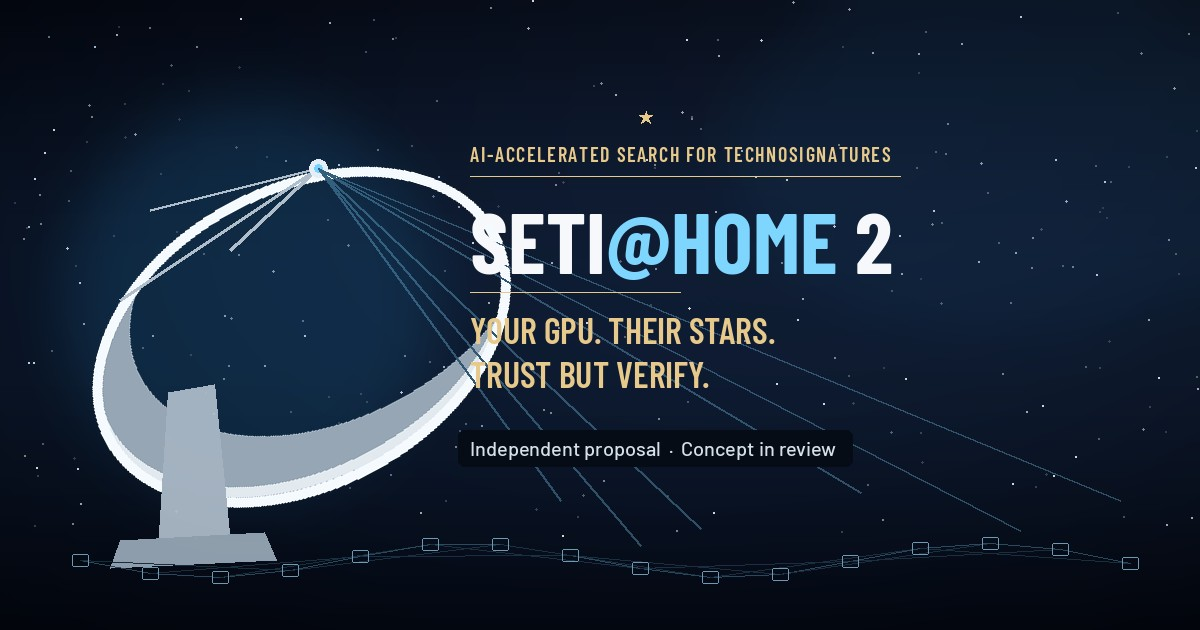
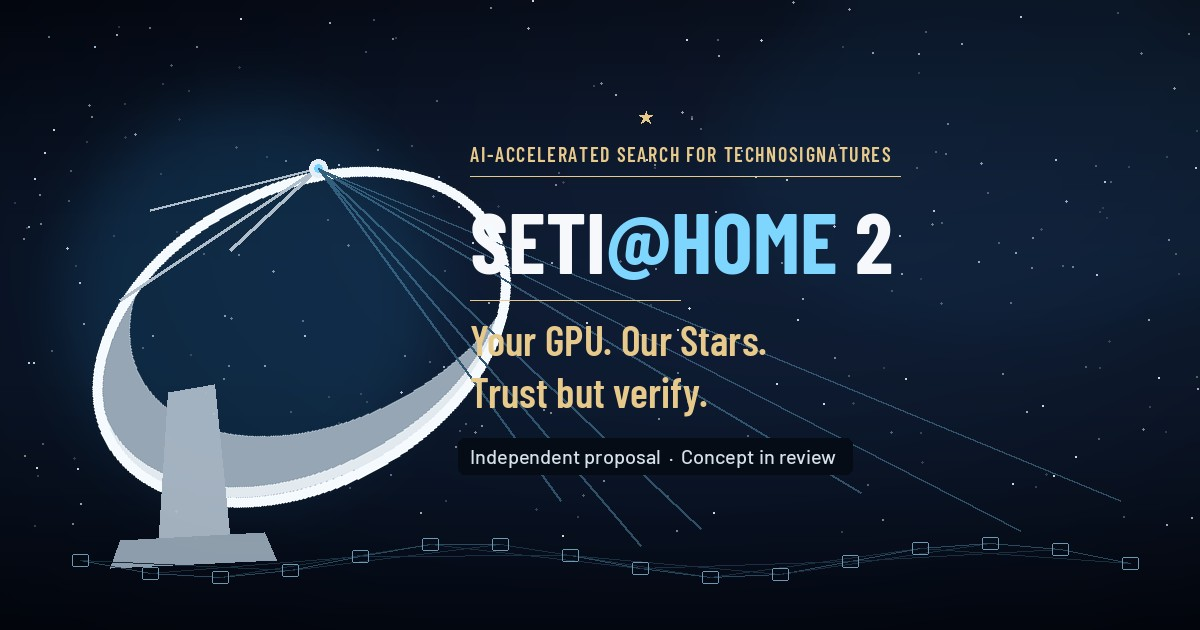
Use the tagline Your GPU. Our Stars.
Replace the old wording in the page, share metadata, and the Open Graph image. Trust but verify still follows it.

Changed region(s): [[0.37, 0.4524, 0.6475, 0.6635], [0.4008, 0.6937, 0.7092, 0.754]]

diff --git a/index.html b/index.html
@@ -3,7 +3,7 @@
 <head>
   <meta charset="utf-8">
   <meta name="viewport" content="width=device-width, initial-scale=1">
-  <title>SETI@Home 2 — Your GPU. Their stars. Trust but verify.</title>
+  <title>SETI@Home 2 — Your GPU. Our Stars. Trust but verify.</title>
   <meta name="description" content="An independent proposal by Phil Rail to reanalyze historical radio SETI archives with modern anomaly detection. Concept phase: no organization, funding, or infrastructure yet.">
   <meta name="author" content="Phil Rail">
   <meta name="theme-color" content="#07101c">
@@ -11,17 +11,17 @@
   <link rel="icon" href="assets/favicon.svg" type="image/svg+xml">
   <meta property="og:type" content="website">
   <meta property="og:url" content="https://isowix.github.io/seti-home-2/">
-  <meta property="og:title" content="SETI@Home 2 — Your GPU. Their stars. Trust but verify.">
+  <meta property="og:title" content="SETI@Home 2 — Your GPU. Our Stars. Trust but verify.">
   <meta property="og:description" content="An independent proposal to re-check historical radio SETI archives with modern anomaly detection, under a trust-but-verify standard. Concept phase. Nothing built yet.">
   <meta property="og:image" content="https://isowix.github.io/seti-home-2/assets/og-image.jpg">
   <meta property="og:image:width" content="1200">
   <meta property="og:image:height" content="630">
-  <meta property="og:image:alt" content="SETI@Home 2. Your GPU. Their stars. Trust but verify. An independent proposal in concept review, beside a drawing of a radio telescope.">
+  <meta property="og:image:alt" content="SETI@Home 2. Your GPU. Our Stars. Trust but verify. An independent proposal in concept review, beside a drawing of a radio telescope.">
   <meta name="twitter:card" content="summary_large_image">
-  <meta name="twitter:title" content="SETI@Home 2 — Your GPU. Their stars. Trust but verify.">
+  <meta name="twitter:title" content="SETI@Home 2 — Your GPU. Our Stars. Trust but verify.">
   <meta name="twitter:description" content="An independent proposal to re-check historical radio SETI archives with modern anomaly detection. Concept phase. Nothing built yet.">
   <meta name="twitter:image" content="https://isowix.github.io/seti-home-2/assets/og-image.jpg">
-  <meta name="twitter:image:alt" content="SETI@Home 2. Your GPU. Their stars. Trust but verify. An independent proposal in concept review, beside a drawing of a radio telescope.">
+  <meta name="twitter:image:alt" content="SETI@Home 2. Your GPU. Our Stars. Trust but verify. An independent proposal in concept review, beside a drawing of a radio telescope.">
   <link rel="preload" href="assets/fonts/barlow-condensed-latin-700-normal.woff2" as="font" type="font/woff2" crossorigin>
   <link rel="preload" href="assets/fonts/barlow-latin-400-normal.woff2" as="font" type="font/woff2" crossorigin>
   <link rel="stylesheet" href="assets/styles.css">
@@ -77,7 +77,7 @@
         <div>
           <p class="kicker">AI-accelerated search for technosignatures</p>
           <h1 id="hero-title">SETI<span class="at">@Home</span> 2</h1>
-          <p class="tagline">Your GPU. Their stars.<br>Trust but verify.</p>
+          <p class="tagline">Your GPU. Our Stars.<br>Trust but verify.</p>
           <p class="lede">A proposal to look again at radio data that has already been recorded — the original SETI@home corpus, where it can still be read, and the public Breakthrough Listen archive — with the anomaly-detection methods of this decade.</p>
           <p class="byline">An early-stage independent proposal by Phil Rail, seeking reviewers and collaborators.</p>
           <div class="actions" id="download">

diff --git a/assets/styles.css b/assets/styles.css
@@ -380,9 +380,8 @@ h1 .at {
   font-family: var(--display);
   font-weight: 700;
   font-size: clamp(1.7rem, 4vw, 2.5rem);
-  letter-spacing: 0.04em;
+  letter-spacing: 0.03em;
   line-height: 1.05;
-  text-transform: uppercase;
 }
 
 .lede {
